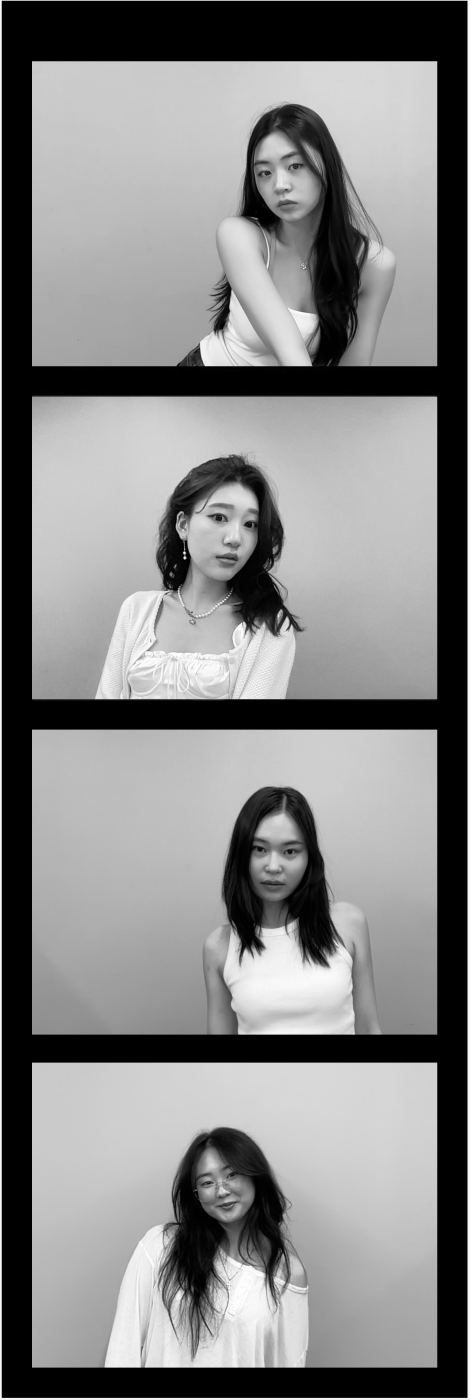
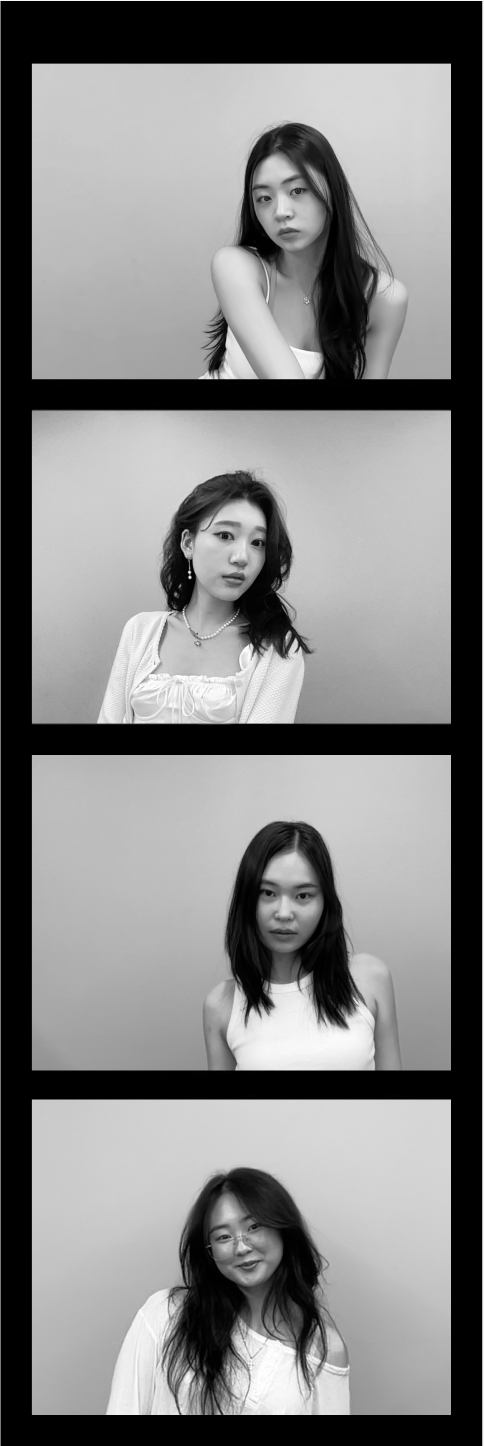
second pic on home change

diff --git a/src/pages/Home/index.jsx b/src/pages/Home/index.jsx
@@ -7,7 +7,7 @@ import Filter from "../../assets/AddFilter.png";
 import Frame from "../../assets/FrameColor.png";
 import Download from "../../assets/DownloadShare.png";
 import HomePic1 from "../../assets/homepic1.png";
-import HomePic2 from "../../assets/homepic2.png";
+import HomePic3 from "../../assets/homepic3.png";
 import Header from "../../components/Header/Header";
 import Footer from "../../components/Footer/Footer";
 import { useEffect } from "react";
@@ -43,7 +43,7 @@ const Home = () => {
           {/* Right Side Images */}
           <div className="home-right-content">
             <img src={HomePic1} alt="HomePic1" className="home-image1" />
-            <img src={HomePic2} alt="HomePic2" className="home-image2" />
+            <img src={HomePic3} alt="HomePic3" className="home-image3" />
           </div>
         </div>
 

diff --git a/src/pages/Home/index.css b/src/pages/Home/index.css
@@ -87,7 +87,7 @@
   margin-top: 120px;
 }
 
-.home-image2 {
+.home-image3 {
   width: 100%;
   max-width: 200px;
   margin-top: 40px;
